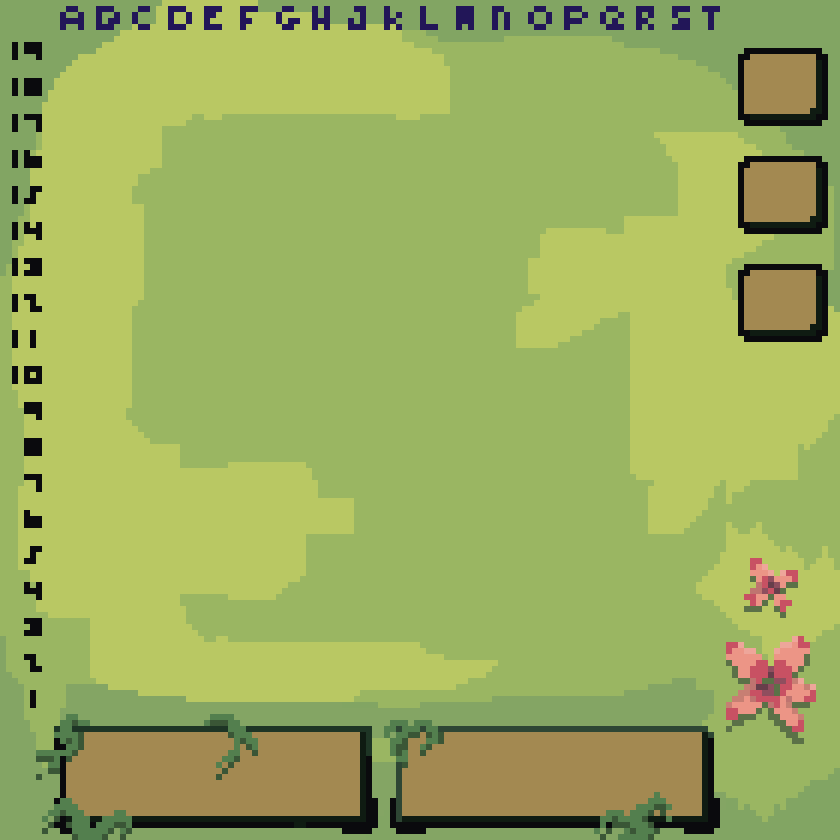
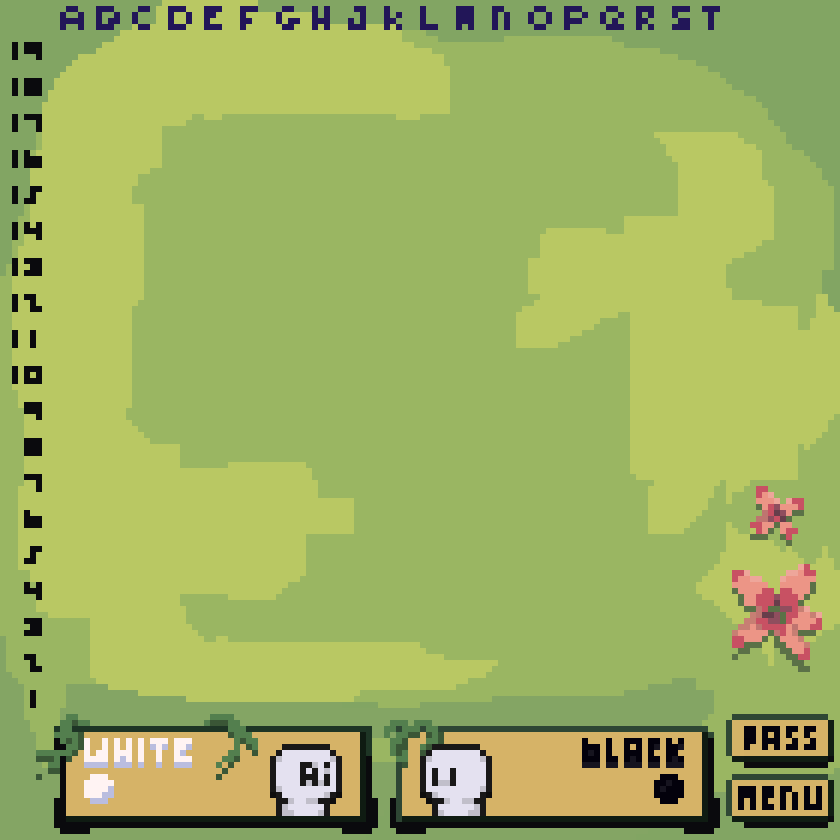
read me

diff --git a/README.md b/README.md
@@ -1,4 +1,11 @@
 # Alphazero for Go
 <br />
 
-Simple AlphaZero implementation for playing Go/Baduk
+## Test model
+Trained with 1000 game samples for 25 epochs. Has a level of around 20 kyu, only good for testing the UI.
+<br />
+Future plans of training with more samples and implementing self play for reinforcement learning similar to AlphaZero.
+
+## Current UI
+![Main Menu](https://github.com/Mafe77/alphazero-go/blob/master/assets/mainmenuSS.png)
+![Game Screen](https://github.com/Mafe77/alphazero-go/blob/master/assets/gameSS.png)
